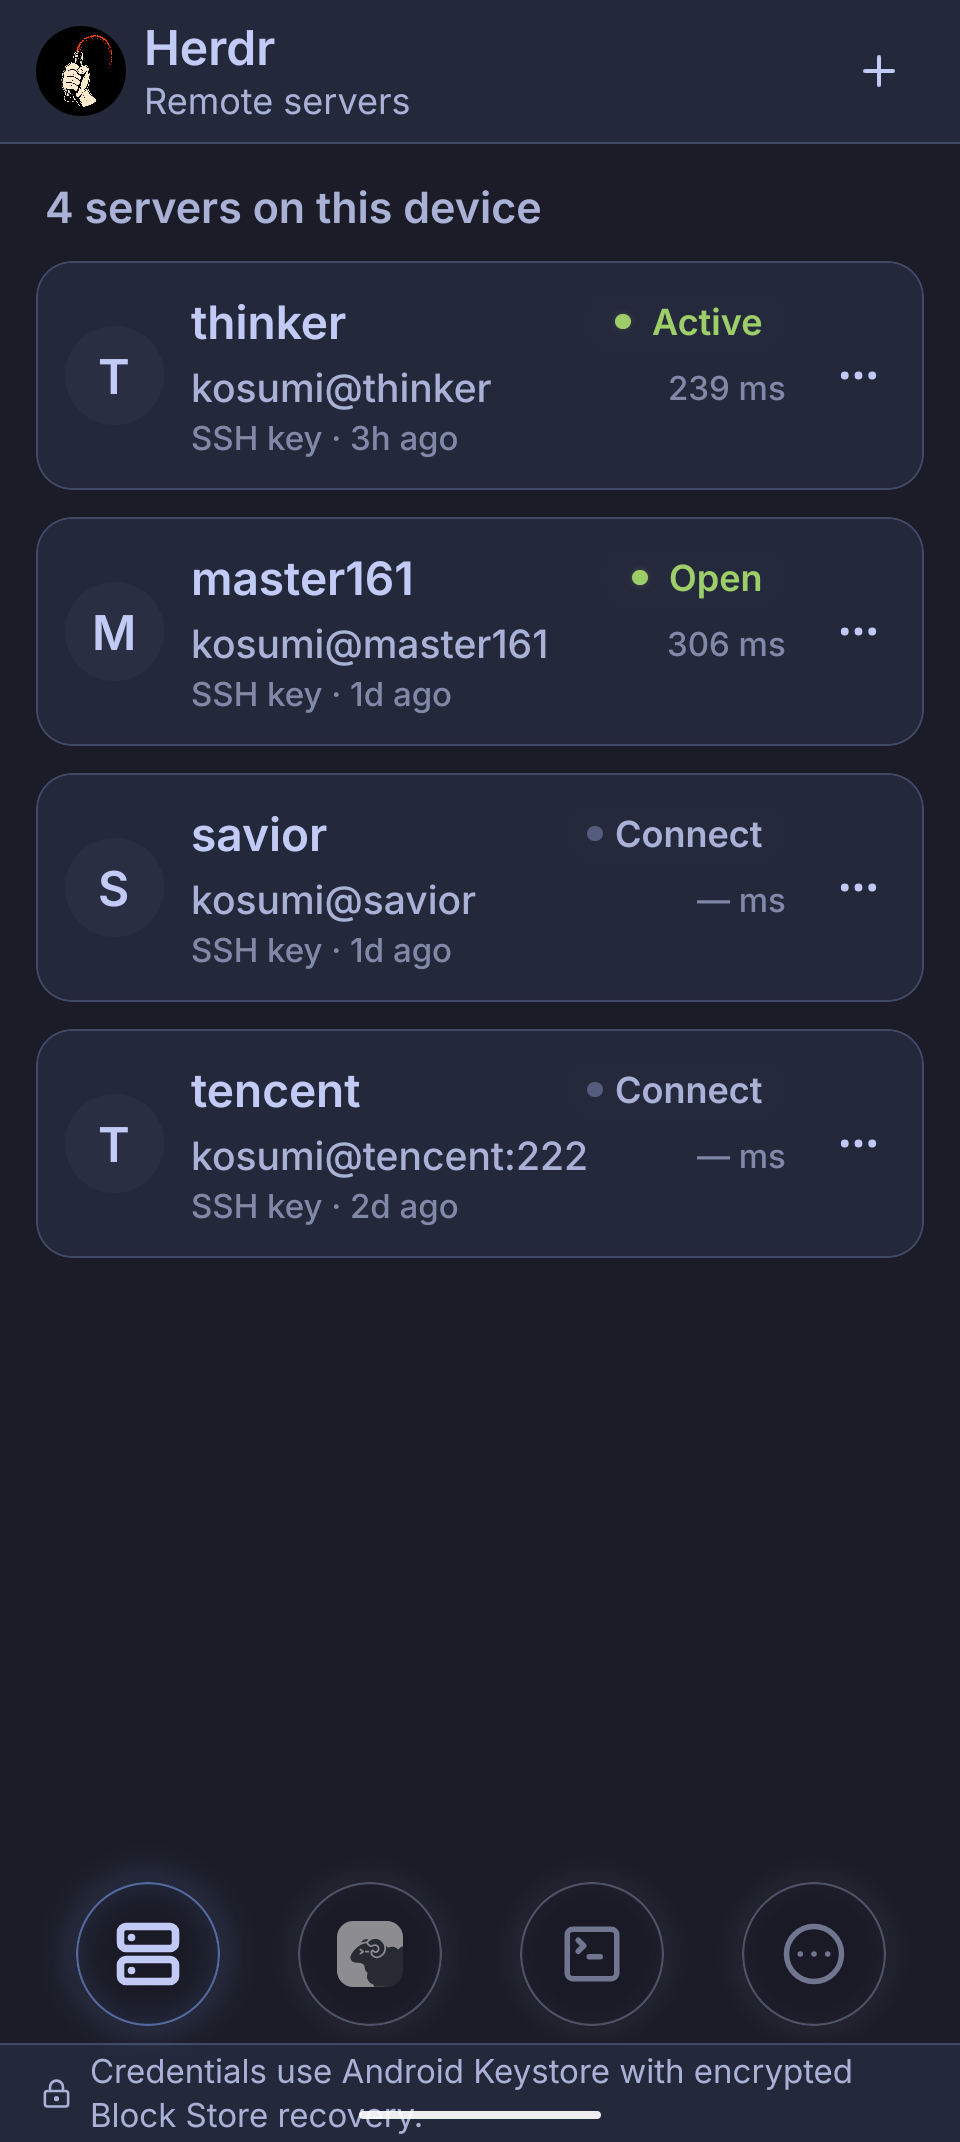
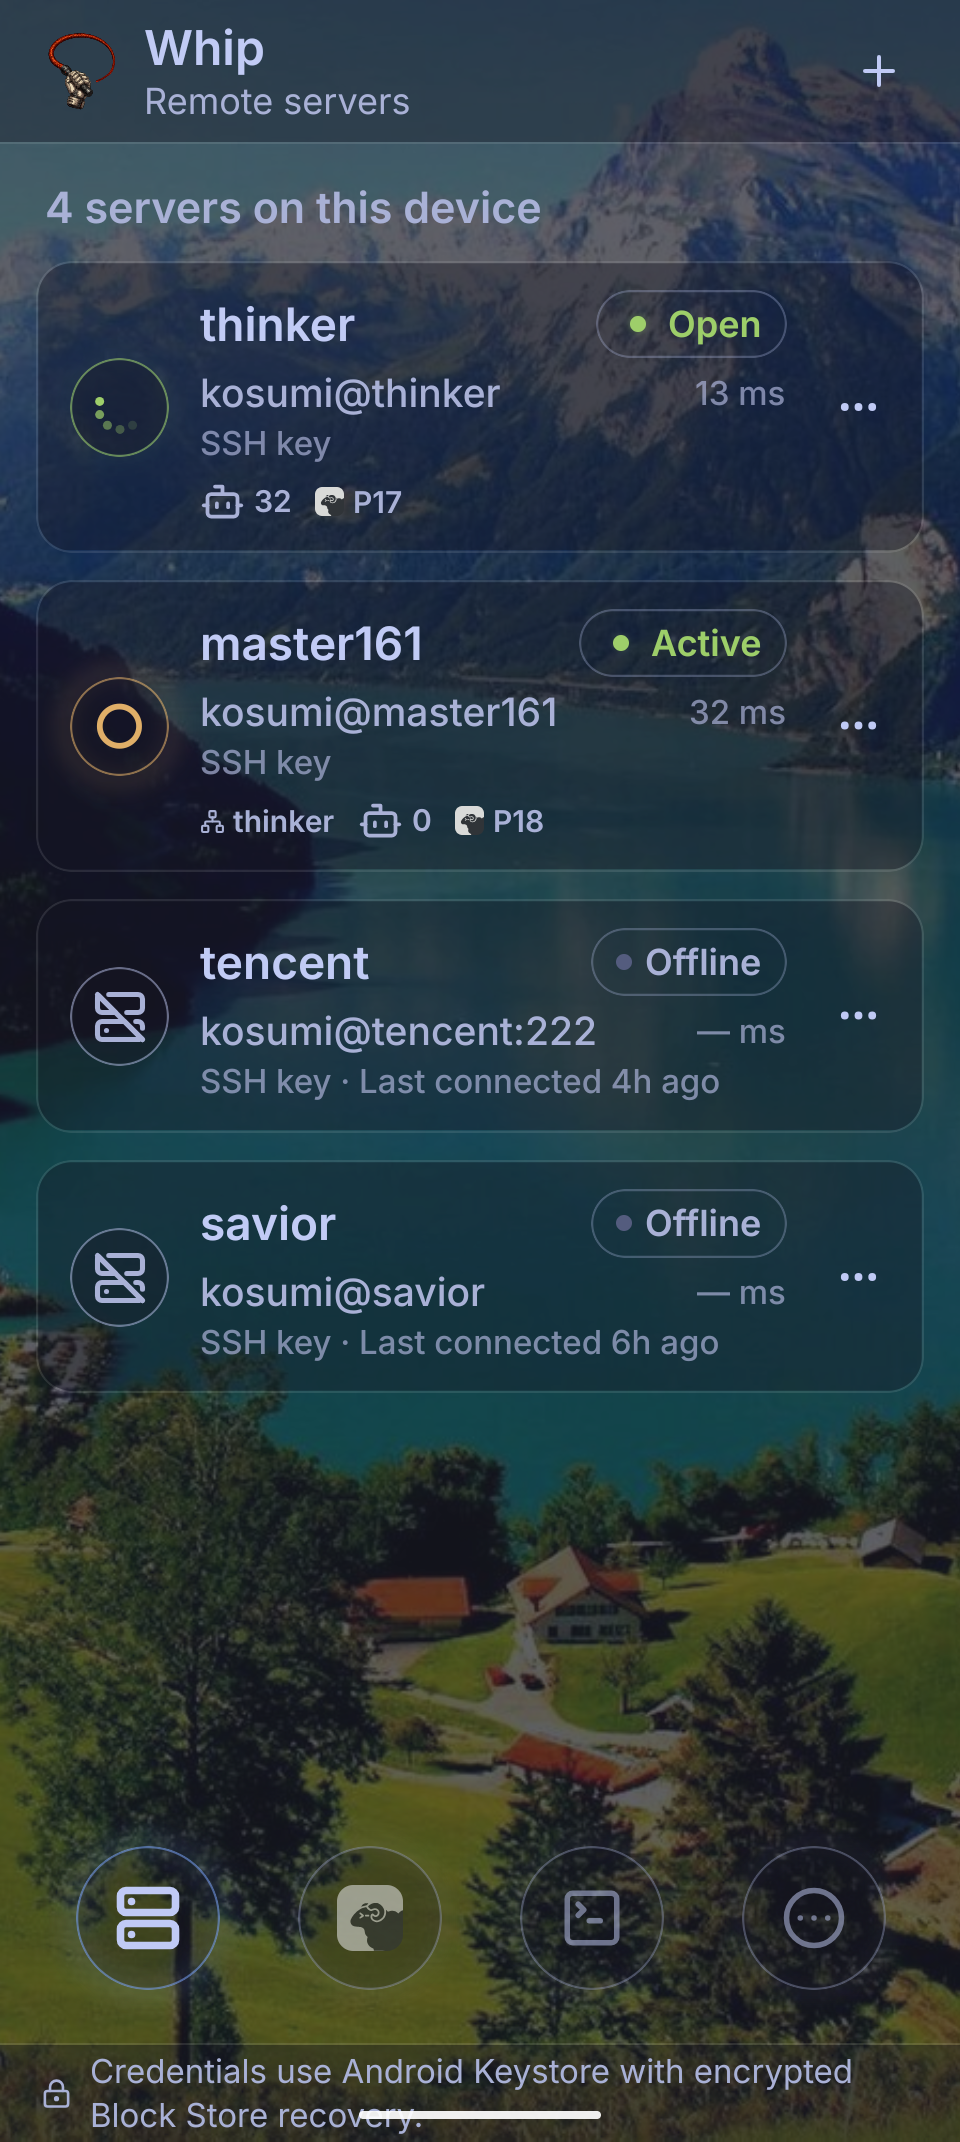
docs: refresh README and app screenshots

diff --git a/README.md b/README.md
@@ -23,7 +23,7 @@
 
 Whip gives [Herdr](https://github.com/ogulcancelik/herdr) a touch-friendly Android interface without exposing Herdr itself to the network or requiring changes on the host. It connects to your machine over SSH—directly or through saved jump hosts, ideally over Tailscale—and rebuilds the management experience as native screens. You can watch the whole herd, prompt an agent through a native chat composer, browse remote files, or attach to a full terminal when you need it.
 
-The app separates connection management from daily supervision: **Hosts** manages saved SSH endpoints, **Herd** merges their agents into a scoped attention queue, **Terminal** keeps open pane sessions within reach, and **More** holds security, notification, appearance, and terminal preferences.
+The app separates connection management from daily supervision: **Hosts** manages saved SSH endpoints and exposes their live Herdr state, **Herd** merges connected agents into a scoped attention queue, **Terminal** keeps open pane sessions within reach, and **More** holds security, notification, appearance, and terminal preferences.
 
 Whip is not developed, maintained, or endorsed by the Herdr project or its authors.
 
@@ -31,7 +31,7 @@ Whip is not developed, maintained, or endorsed by the Herdr project or its autho
 
 <table>
   <tr>
-    <td align="center"><img src="assets/screenshots/hosts.png" alt="Whip Hosts screen showing saved Herdr servers, connection state, and latency" width="320"></td>
+    <td align="center"><img src="assets/screenshots/hosts.png" alt="Whip Hosts screen showing connected hosts first with agent status, protocol, latency, and a jump-host route" width="320"></td>
     <td align="center"><img src="assets/screenshots/herd.png" alt="Whip Herd screen showing merged host scopes, agent totals, and the attention queue" width="320"></td>
   </tr>
   <tr>
@@ -40,18 +40,18 @@ Whip is not developed, maintained, or endorsed by the Herdr project or its autho
   </tr>
   <tr>
     <td align="center"><img src="assets/screenshots/terminal.png" alt="Whip terminal showing open tabs, the web-link browser action, and mobile keys" width="320"></td>
-    <td align="center"><img src="assets/screenshots/chat-composer.png" alt="Whip native chat composer open above Gboard voice input" width="320"></td>
+    <td align="center"><img src="assets/screenshots/chat-composer.png" alt="Whip native chat composer open over a live remote agent terminal" width="320"></td>
   </tr>
   <tr>
-    <td align="center"><strong>Work from anywhere</strong><br>Keep remote terminal tabs warm, use mobile controls, and open discovered web links in one tap.</td>
-    <td align="center"><strong>Chat naturally</strong><br>Prompt a remote agent from the native multiline composer, including voice dictation through Gboard.</td>
+    <td align="center"><strong>Work from anywhere</strong><br>Keep remote terminal tabs warm, use mobile controls, and open discovered web links or remote files in one tap.</td>
+    <td align="center"><strong>Chat naturally</strong><br>Prompt a remote agent from the native multiline composer with Android keyboard, suggestion, and voice-input support.</td>
   </tr>
   <tr>
-    <td align="center"><img src="assets/screenshots/remote-files.png" alt="Whip Remote files screen browsing the current terminal directory over SFTP" width="320"></td>
-    <td align="center"><img src="assets/screenshots/jump-host-agent-forwarding.png" alt="Whip host editor showing jump-host selection and SSH agent forwarding" width="320"></td>
+    <td align="center"><img src="assets/screenshots/remote-files.png" alt="Whip Remote files screen browsing and sorting the current terminal directory over SFTP" width="320"></td>
+    <td align="center"><img src="assets/screenshots/jump-host-agent-forwarding.png" alt="Whip saved host editor showing an active jump-host route and SSH agent forwarding" width="320"></td>
   </tr>
   <tr>
-    <td align="center"><strong>Bring the filesystem with you</strong><br>Browse the terminal's current directory over SFTP and upload, download, edit, or preview remote files.</td>
+    <td align="center"><strong>Bring the filesystem with you</strong><br>Browse, sort, upload, download, edit, delete, or preview the terminal's remote files over SFTP.</td>
     <td align="center"><strong>Reach private hosts safely</strong><br>Build nested jump-host routes and opt into SSH agent forwarding without placing the private key on the server.</td>
   </tr>
   <tr>
@@ -62,7 +62,7 @@ Whip is not developed, maintained, or endorsed by the Herdr project or its autho
   </tr>
 </table>
 
-Screenshots were captured from Whip 0.3.0 on a Pixel 9 Pro.
+Screenshots were captured from the current ARM64 release build on a Pixel 9 Pro.
 
 ## What you can do
 
@@ -70,6 +70,7 @@ Screenshots were captured from Whip 0.3.0 on a Pixel 9 Pro.
 
 - Monitor every open host in one native attention queue, with per-host and per-space scopes.
 - See working, blocked, done, idle, and unknown agents, including their host and space context.
+- Keep connected hosts first and order them by the same agent-status priority as the Herd queue; see each host's agent count, Herdr protocol, measured latency, and jump-host route.
 - Move through Herdr hosts, spaces, tabs, panes, and agents without living in a terminal.
 - Create, focus, rename, split, zoom, inspect, and close space resources, including swipe-to-close Herd tabs.
 - Launch agents and chat through a native multiline composer that works with Android keyboards, including Gboard voice input and suggestions.
@@ -82,10 +83,12 @@ Screenshots were captured from Whip 0.3.0 on a Pixel 9 Pro.
 - Keep multiple terminal surfaces warm while switching or swiping between tabs, with a buffered composer, ANSI colors, modifier keys, touch scrolling, Page Up/Down, selection, live resizing, and configurable appearance.
 - Reuse persistent input history, copy previous commands with a long press, and configure fullscreen behavior, volume-key and double-tap actions, and the number of cached xterm surfaces.
 - Scan terminal scrollback for web links and open local or LAN services in the in-app browser through an on-demand SSH tunnel.
+- Recover open control connections after network changes and app resume without restarting healthy sessions.
 
 ### Move files and attachments
 
-- Browse the active terminal's current directory over SFTP; upload, download, edit, and preview code, text, Markdown, images, and sandboxed HTML.
+- Browse the active terminal's current directory over SFTP, remember a location per terminal, and sort by name, modification time, or size.
+- Upload, download, edit, or swipe-delete remote files; preview code, text, Markdown with remote links and images, raster images, SVG, video, and sandboxed HTML.
 - Upload a photo, file, camera capture, or clipboard image to the host and paste its remote path into the terminal composer.
 
 ### Connect securely
@@ -99,20 +102,22 @@ Screenshots were captured from Whip 0.3.0 on a Pixel 9 Pro.
 ### Make it yours
 
 - Receive local notifications, vibration, and optional speech when an agent becomes blocked or finishes.
-- Set the duration of background agent alerts and customize terminal gestures, controls, history, fonts, and cached sessions.
+- Set the duration of background agent alerts, dismiss active alerts by returning to Whip, and customize terminal gestures, controls, history, fonts, and cached sessions.
 - Use the app in English or Traditional Chinese, with system, light, GitHub Light, dark, and Tokyo Night appearance options.
 - Choose an app background image and optionally layer experimental translucent glass bars, rows, controls, and navigation over it.
 
-## Install an experimental preview
+## Install Whip
 
-Whip 0.3.0 preview APKs are currently ARM64-only prereleases. Their signing identity may change before Whip reaches a stable release, so Android may require you to uninstall an older preview before installing a newer one.
+The recommended installation is through the [Google Play Early Access program](https://play.google.com/store/apps/details?id=io.github.kaminarios.whip). Join the [Whip Community](https://groups.google.com/g/whip-community) first if Google Play asks for closed-testing access.
+
+Signed ARM64 APKs are also published as normal latest releases on [GitHub Releases](https://github.com/KaminariOS/whip/releases). They use the project's existing release key and include a SHA-256 checksum alongside the APK.
 
 1. Read the [security policy](SECURITY.md) and [privacy notes](PRIVACY.md).
 2. Make the Herdr host reachable over SSH, preferably through a Tailnet you trust. An otherwise private destination can be reached through a saved jump host.
-3. Download the APK from [GitHub Releases](https://github.com/KaminariOS/whip/releases).
+3. Install through Google Play, or download `whip-arm64.apk` and its checksum from the latest GitHub release.
 4. Allow installation from the app that downloaded the APK, then open Whip.
 
-Whip supports Android 7.0 and newer (`minSdk 24`). The current preview distribution targets 64-bit ARM Android devices.
+Whip supports Android 7.0 and newer (`minSdk 24`). The current direct APK distribution targets 64-bit ARM Android devices. Keep using the same distribution source when updating: Google Play may re-sign store builds through Play App Signing, so Android can require an uninstall when switching between Play and GitHub packages.
 
 ## Connect your first host
 
